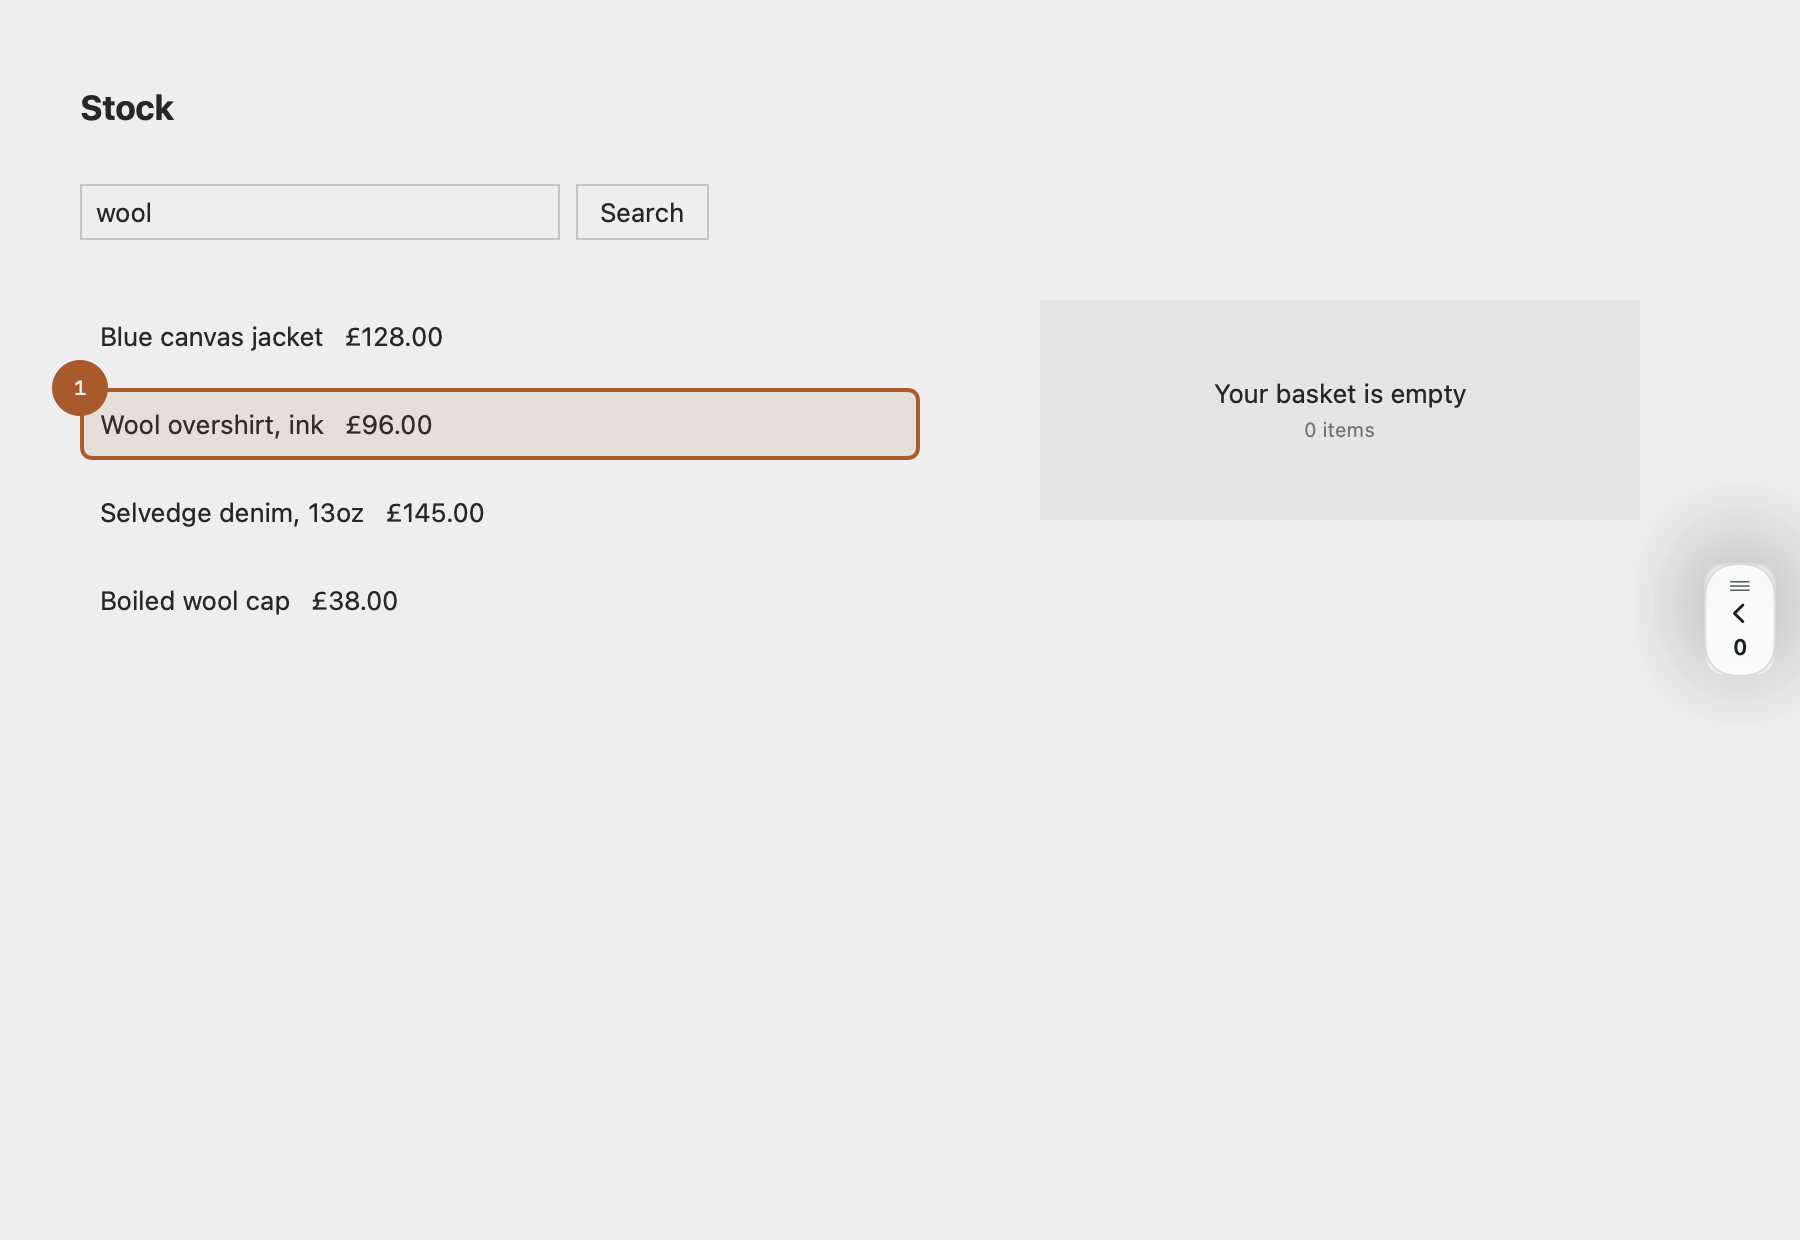
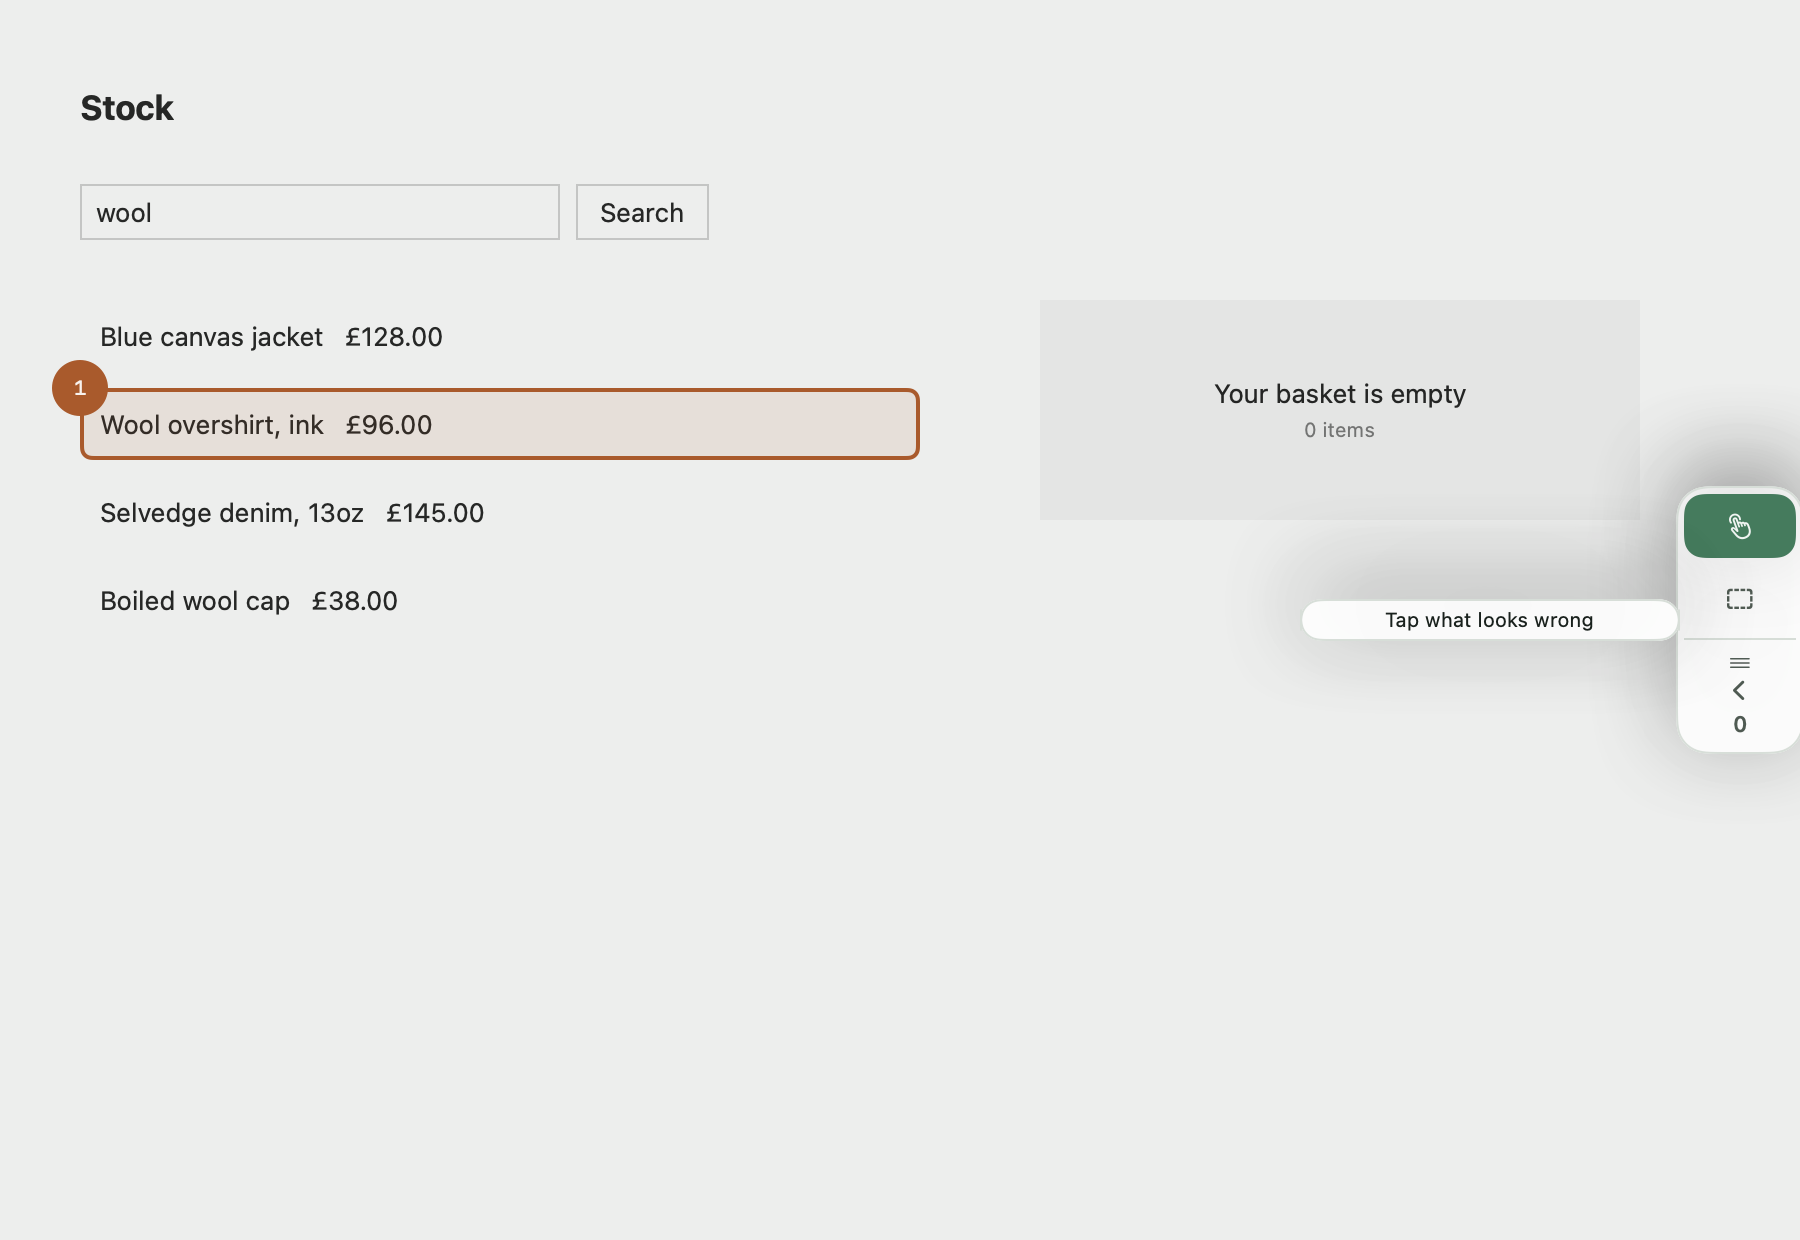
feat: the pull says which selection tool is live, and what it does
"I don't see any UI config updates - like pick the selection styles".
Tap-to-pick and drag-a-box both worked already. Neither was findable.

**The control is on the pull, not inside the drawer.** That is a change
from the design agreed with the other session, and the reason is that
you pick with the drawer shut: a control that only exists once you have
opened a drawer is invisible exactly when it is needed, and unfindable
by somebody who does not know the drawer holds anything. Which is the
original complaint, restated rather than fixed.

So while picking, the pull carries Point and Box above the chevron, the
live one lit. Same object, same edge, still moves with the drag. Nothing
new floating on the app.

**It does not lock the gesture.** A tap still picks an element with Box
lit; a drag still makes a region with Point lit. A control somebody can
get stuck in the wrong side of is worse than the missing signpost it
replaced, and a tap and a drag cannot be mistaken for one another
anyway. The lit tool follows what was actually done - `pick(_:)` sets it
from `ref.kind` - so it teaches by reflecting rather than instructing,
and it can never disagree with what happened. A free-hand path will be
the exception when it lands, because a drawn shape and a dragged
rectangle really are the same gesture.

**A hint sits beside the pull while picking**: "Tap what looks wrong" /
"Drag around what looks wrong". It breaks a rule this file has treated
[…]

Changed region(s): [[0.7467, 0.3371, 1.0, 0.5823]]

diff --git a/Sources/LoupeUI/OverlayRoot.swift b/Sources/LoupeUI/OverlayRoot.swift
@@ -114,6 +114,95 @@ public struct OverlayRoot: View {
     @ViewBuilder
     private func pull(in size: CGSize) -> some View {
         let height = size.height
+        VStack(spacing: 0) {
+            // On the pull, not inside the drawer. The complaint was that nothing said
+            // drag-select existed - and a control that only appears once you have
+            // opened a drawer is not findable by somebody who does not know the
+            // drawer has anything in it.
+            if case .picking = model.mode {
+                toolControl
+                Divider()
+                    .overlay(LoupeTheme.Colors.line.color)
+                    .padding(.horizontal, LoupeTheme.Space.xs)
+            }
+            drawerButton
+        }
+        // Sized to its contents before it is placed. `.position` proposes the whole
+        // parent to its child, so without this the pull's panel filled the screen -
+        // a white slab over the app with the buttons floating on its edge.
+        .fixedSize()
+        .loupePanel()
+        // No label on the container. It holds three separate buttons now, and a label
+        // here made the whole column answer to the drawer button's name as well - two
+        // elements with one name, ambiguous to VoiceOver and to anything driving the
+        // app. Each button carries its own. Same mistake as SER-685, one level up.
+        .loupeInteractive()
+        .position(x: pullX(in: size), y: pullY(in: size))
+        .highPriorityGesture(dragToMoveOrOpen(in: size))
+        .animation(LoupeTheme.Motion.resolved(LoupeTheme.Motion.panel,
+                                              reduceMotion: reduceMotion),
+                   value: model.handle)
+        .animation(LoupeTheme.Motion.resolved(LoupeTheme.Motion.panel,
+                                              reduceMotion: reduceMotion),
+                   value: model.trayExpanded)
+
+        hint(in: size)
+    }
+
+    /// What the current tool means, in words, beside the pull.
+    ///
+    /// **Never interactive.** It carries no `.loupeInteractive()` and refuses hit
+    /// testing outright, so unlike every other thing Loupe draws it can sit over the
+    /// app without making anything underneath unpickable. That is the whole reason a
+    /// hint is affordable here at all.
+    @ViewBuilder
+    private func hint(in size: CGSize) -> some View {
+        if case .picking = model.mode, !model.trayExpanded {
+            Text(model.tool.hint)
+                .font(LoupeTheme.Typography.note)
+                .foregroundStyle(LoupeTheme.Colors.ink.color)
+                .lineLimit(1)
+                .padding(.horizontal, LoupeTheme.Space.sm)
+                .padding(.vertical, LoupeTheme.Space.xs)
+                // An explicit width, and sized before it is placed. `.position` makes
+                // a view fill its parent and then centres it, so a `.fixedSize` after
+                // it does nothing at all - which turned this label into an empty
+                // white slab across the middle of the screen.
+                .frame(width: hintWidth)
+                .loupePanel()
+                .allowsHitTesting(false)
+                .accessibilityHidden(true)
+                .position(x: pullX(in: size)
+                            - LoupeTheme.Hit.touch / 2
+                            - LoupeTheme.Space.sm
+                            - hintWidth / 2,
+                          y: pullY(in: size))
+        }
+    }
+
+    /// Enough for the longer of the two hints at the note size, so the label sits
+    /// clear of the pull rather than under it.
+    private var hintWidth: CGFloat { 190 }
+
+    /// Point or Box. Lit is what the next gesture is expected to be, not what it is
+    /// allowed to be - both gestures work whichever is lit.
+    private var toolControl: some View {
+        VStack(spacing: LoupeTheme.Space.xs) {
+            ForEach(PickTool.allCases, id: \.self) { tool in
+                Button { model.use(tool) } label: {
+                    Image(systemName: tool.symbol)
+                        .frame(width: LoupeTheme.Hit.touch - LoupeTheme.Space.md,
+                               height: LoupeTheme.Hit.touch - LoupeTheme.Space.md)
+                }
+                .buttonStyle(LoupeButtonStyle(kind: model.tool == tool ? .primary : .quiet))
+                .accessibilityLabel(tool.accessibilityLabel)
+                .accessibilityAddTraits(model.tool == tool ? [.isSelected] : [])
+            }
+        }
+        .padding(LoupeTheme.Space.xs)
+    }
+
+    private var drawerButton: some View {
         Button { model.toggleTray() } label: {
             VStack(spacing: LoupeTheme.Space.xs) {
                 // Says "drag me", which nothing else here did: "handler doesn't look
@@ -130,47 +219,40 @@ public struct OverlayRoot: View {
             }
             .padding(.vertical, LoupeTheme.Space.sm)
         }
-        .buttonStyle(LoupeButtonStyle(kind: .secondary))
-        .loupePanel()
+        // Quiet, because the pull's own panel is already the surface. A bordered
+        // button inside it drew a second rounded rectangle and the whole thing read
+        // as two stacked panels rather than one pull with sections.
+        .buttonStyle(LoupeButtonStyle(kind: .quiet))
         .accessibilityLabel(pullAccessibilityLabel)
         .accessibilityHint("Slides the notes panel in and out. Drag it up or down to "
                            + "move it off whatever is underneath.")
-        .loupeInteractive()
-        .position(x: pullX(in: size), y: pullY(in: size))
-        // High priority, not a plain `.gesture`. The pull is a `Button`, and a
-        // button's own tap recogniser will otherwise win a race it should lose: a
-        // quick flick was swallowed roughly half the time, which is exactly the
-        // gesture someone makes when they want the thing out of the way *now*.
-        // Below the minimum distance nothing here fires at all, so the tap still
-        // works.
-        .highPriorityGesture(
-            // Has to travel before it counts, or a tap on the pull would be read as
-            // the beginning of a move.
-            DragGesture(minimumDistance: LoupeTheme.Space.md)
-                .onChanged { dragOffset = $0.translation }
-                .onEnded { value in
-                    dragOffset = .zero
-                    // Away from the trailing edge means open. It is the direction the
-                    // drawer would travel, so it is the one the pull should answer to.
-                    if value.translation.width < -openThreshold,
-                       abs(value.translation.width) > abs(value.translation.height) {
-                        model.setTrayExpanded(true)
-                    } else if value.translation.width > openThreshold,
-                              abs(value.translation.width) > abs(value.translation.height) {
-                        model.setTrayExpanded(false)
-                    } else {
-                        model.moveHandle(toFraction: DrawerHandle.fraction(
-                            forY: model.handle.centreY(in: height) + value.translation.height,
-                            in: height))
-                    }
+    }
+
+    /// High priority, not a plain `.gesture`. The pull is a `Button`, and a button's
+    /// own tap recogniser will otherwise win a race it should lose: a quick flick was
+    /// swallowed roughly half the time, which is exactly the gesture someone makes
+    /// when they want the thing out of the way *now*. Below the minimum distance
+    /// nothing here fires at all, so the taps still work.
+    private func dragToMoveOrOpen(in size: CGSize) -> some Gesture {
+        // Has to travel before it counts, or a tap on the pull would be read as the
+        // beginning of a move.
+        DragGesture(minimumDistance: LoupeTheme.Space.md)
+            .onChanged { dragOffset = $0.translation }
+            .onEnded { value in
+                dragOffset = .zero
+                // Away from the trailing edge means open. It is the direction the
+                // drawer would travel, so it is the one the pull should answer to.
+                let sideways = abs(value.translation.width) > abs(value.translation.height)
+                if sideways, value.translation.width < -openThreshold {
+                    model.setTrayExpanded(true)
+                } else if sideways, value.translation.width > openThreshold {
+                    model.setTrayExpanded(false)
+                } else {
+                    model.moveHandle(toFraction: DrawerHandle.fraction(
+                        forY: model.handle.centreY(in: size.height) + value.translation.height,
+                        in: size.height))
                 }
-        )
-        .animation(LoupeTheme.Motion.resolved(LoupeTheme.Motion.panel,
-                                              reduceMotion: reduceMotion),
-                   value: model.handle)
-        .animation(LoupeTheme.Motion.resolved(LoupeTheme.Motion.panel,
-                                              reduceMotion: reduceMotion),
-                   value: model.trayExpanded)
+            }
     }
 
     /// Where the pull sits horizontally: against the screen's edge when the drawer is

diff --git a/Tests/LoupeUITests/OverlayChromeTests.swift b/Tests/LoupeUITests/OverlayChromeTests.swift
@@ -25,6 +25,11 @@ final class OverlayChromeTests: XCTestCase {
         ElementRef(accessibilityID: id, bounds: Rect(x: 0, y: 0, width: 10, height: 10))
     }
 
+    private func region(_ id: String) -> ElementRef {
+        ElementRef(kind: .region, accessibilityID: id,
+                   bounds: Rect(x: 0, y: 0, width: 40, height: 40))
+    }
+
     private func saveANote(_ m: OverlayModel, _ text: String = "a note") {
         m.pick(ref("row"))
         m.saveComment(text, tag: nil)
@@ -89,6 +94,74 @@ final class OverlayChromeTests: XCTestCase {
 
         XCTAssertEqual(m.mode, .off)
         XCTAssertFalse(m.trayExpanded)
+    }
+
+    // MARK: - The tool control says what exists, and never traps you
+
+    func testTheToolStartsAtPoint() {
+        let m = model()
+        m.beginAnnotating()
+        XCTAssertEqual(m.tool, .point)
+    }
+
+    func testChoosingAToolSelectsIt() {
+        let m = model()
+        m.beginAnnotating()
+        m.use(.box)
+        XCTAssertEqual(m.tool, .box)
+    }
+
+    /// The whole reason it does not lock: a control someone can get stuck in the
+    /// wrong side of is worse than the missing signpost it replaced.
+    func testATapStillPicksAnElementWhileBoxIsSelected() {
+        let m = model()
+        m.beginAnnotating()
+        m.use(.box)
+
+        m.pick(ref("row"))
+
+        guard case .commenting(let pick) = m.mode else {
+            return XCTFail("a tap must still pick, whatever the control says")
+        }
+        XCTAssertEqual(pick.ref.kind, .view)
+    }
+
+    func testADragStillMakesARegionWhilePointIsSelected() {
+        let m = model()
+        m.beginAnnotating()
+        m.use(.point)
+
+        m.pick(region("area"))
+
+        guard case .commenting(let pick) = m.mode else {
+            return XCTFail("a drag must still make a region, whatever the control says")
+        }
+        XCTAssertEqual(pick.ref.kind, .region)
+    }
+
+    /// It teaches by reflecting rather than instructing. Somebody who drags a box
+    /// while Point is lit has just said which tool they meant.
+    func testTheControlFollowsWhatYouActuallyDid() {
+        let m = model()
+        m.beginAnnotating()
+        XCTAssertEqual(m.tool, .point)
+
+        m.pick(region("area"))
+        XCTAssertEqual(m.tool, .box, "a region pick means Box")
+
+        m.cancelComment()
+        m.pick(ref("row"))
+        XCTAssertEqual(m.tool, .point, "and an element pick means Point again")
+    }
+
+    func testEveryToolSaysWhatItDoesInWords() {
+        for tool in PickTool.allCases {
+            XCTAssertFalse(tool.hint.isEmpty, "\(tool) needs a hint - that is the point")
+            XCTAssertFalse(tool.title.isEmpty)
+            XCTAssertFalse(tool.symbol.isEmpty)
+            XCTAssertTrue(tool.accessibilityLabel.contains(tool.title),
+                          "the spoken label should name the tool: \(tool.accessibilityLabel)")
+        }
     }
 
     // MARK: - The pull moves along the edge

diff --git a/Sources/LoupeUI/PickTool.swift b/Sources/LoupeUI/PickTool.swift
@@ -1,0 +1,55 @@
+import Foundation
+
+/// Which gesture the person means to use.
+///
+/// Tap-to-pick and drag-a-box both already worked, and neither was findable: "also,
+/// no way to switch selection modes". So this exists to *say what is there*, which is
+/// a different job from deciding what a gesture does.
+///
+/// **It does not lock the gesture.** A tap still picks an element with `.box`
+/// selected, and a drag still makes a region with `.point` selected. A control that
+/// traps someone in the wrong tool is a worse bug than the one it fixes, and both
+/// gestures are unambiguous - a tap and a drag cannot be mistaken for each other.
+///
+/// The tool follows what you actually did, so the control teaches by reflecting
+/// rather than by instructing. Drag a box with `.point` lit and `.box` lights up.
+///
+/// A free-hand path will be the exception when it lands, because a drawn shape and a
+/// dragged rectangle *are* the same gesture, and something has to say which one is
+/// meant. That is the one tool that will need to be chosen rather than inferred.
+public enum PickTool: String, CaseIterable, Sendable, Equatable {
+    /// Tap an element. The overlay climbs to the one you meant.
+    case point
+    /// Drag a rectangle around whatever you actually mean, element or not.
+    case box
+
+    public var symbol: String {
+        switch self {
+        case .point: return "hand.tap"
+        case .box: return "rectangle.dashed"
+        }
+    }
+
+    public var title: String {
+        switch self {
+        case .point: return "Point"
+        case .box: return "Box"
+        }
+    }
+
+    /// What to do, in the fewest words that are still true. Shown while picking,
+    /// because the whole complaint was that nothing on screen said this.
+    public var hint: String {
+        switch self {
+        case .point: return "Tap what looks wrong"
+        case .box: return "Drag around what looks wrong"
+        }
+    }
+
+    public var accessibilityLabel: String {
+        switch self {
+        case .point: return "Point: tap an element"
+        case .box: return "Box: drag a rectangle"
+        }
+    }
+}

diff --git a/Sources/LoupeUI/OverlayModel.swift b/Sources/LoupeUI/OverlayModel.swift
@@ -49,6 +49,13 @@ public final class OverlayModel: ObservableObject {
     /// have to move it again on the next pick.
     @Published public private(set) var handle = DrawerHandle()
 
+    /// Which gesture the person means to use, and what the tool control shows.
+    ///
+    /// It follows what they actually did rather than only what they chose: making a
+    /// region with Point lit moves it to Box. The control teaches by reflecting, and
+    /// nothing is ever refused for being the wrong tool.
+    @Published public private(set) var tool: PickTool = .point
+
     @Published public private(set) var annotations: [Annotation] = []
     @Published public private(set) var sendState: SendState = .idle
 
@@ -153,6 +160,10 @@ public final class OverlayModel: ObservableObject {
                      contextScreenshotPNG: Data? = nil,
                      screen: String? = nil, viewport: Rect? = nil) {
         guard case .picking = mode else { return }
+        // The control follows the gesture, never the other way round. Someone who
+        // drags a box while Point is lit has just told us which tool they meant, and
+        // refusing the pick to defend a segmented control would be absurd.
+        tool = ref.kind == .region ? .box : .point
         draftComment = ""
         draftTag = nil
         set(.commenting(PendingPick(ref: ref, screenshotPNG: screenshotPNG,
@@ -210,6 +221,9 @@ public final class OverlayModel: ObservableObject {
     }
 
     // MARK: - Tray
+
+    /// Chosen from the tool control.
+    public func use(_ tool: PickTool) { self.tool = tool }
 
     public func toggleTray() { trayExpanded.toggle() }
 

diff --git a/AGENTS.md b/AGENTS.md
@@ -56,6 +56,15 @@ contract: additive changes only, no breaking renames without a major.
   case in `Examples/LoupeDemoApp/UITests`**, which runs on a real simulated iPad in CI.
   Name a slow velocity on synthetic drags: XCUITest's default moves the touch in so few
   events that SwiftUI can miss the gesture, and that flakiness hides real bugs.
+  **A UI run that times out or restarts mid-suite is usually a wedged simulator, not
+  your code** - `Restarting after unexpected exit, crash, or test timeout` in the log,
+  a `testmanagerd` snapshot timeout, or a run that takes an hour instead of two
+  minutes. `xcrun simctl shutdown` then `boot` clears it. Do not go looking for a
+  gesture bug first; both agents on this project have lost time to it.
+  **One label per element, never one on the container.** A label on a stack that holds
+  buttons makes two things answer to one name, and XCUITest fails with "multiple
+  matching elements" rather than anything that names the cause. Same mistake as
+  SER-685, one level up.
 - **Nothing Loupe draws may sit over the app while picking.** Anything with a
   `.loupeInteractive()` region *takes* the touches that land on it, so a panel in the
   way is not merely ugly - whatever is under it cannot be annotated, which is the one
@@ -88,6 +97,11 @@ contract: additive changes only, no breaking renames without a major.
   accessible name, or identifier exists at the UIKit level. Verified by probe on an iPad
   simulator. Do not go looking for it again. The crop and the context shot carry the
   meaning there, which is why both are always captured.
+- **Adding a file to `Sources/` and getting "cannot find type X in scope" from
+  `Examples/LoupeDemo`?** That is a stale `.build`, not your code. SwiftPM misses a new
+  source file in a path dependency. `rm -rf Examples/LoupeDemo/.build` and build again.
+  It has cost two debugging detours already, and the error it produces points at
+  perfectly good code.
 - Never use `instanceof` on DOM types in `web/`. An element inside an iframe is from
   another realm and the check silently fails. Check `tagName` or duck-type instead.
 - **Every screenshot is of this repo's own demo app. Never of a host that adopted
